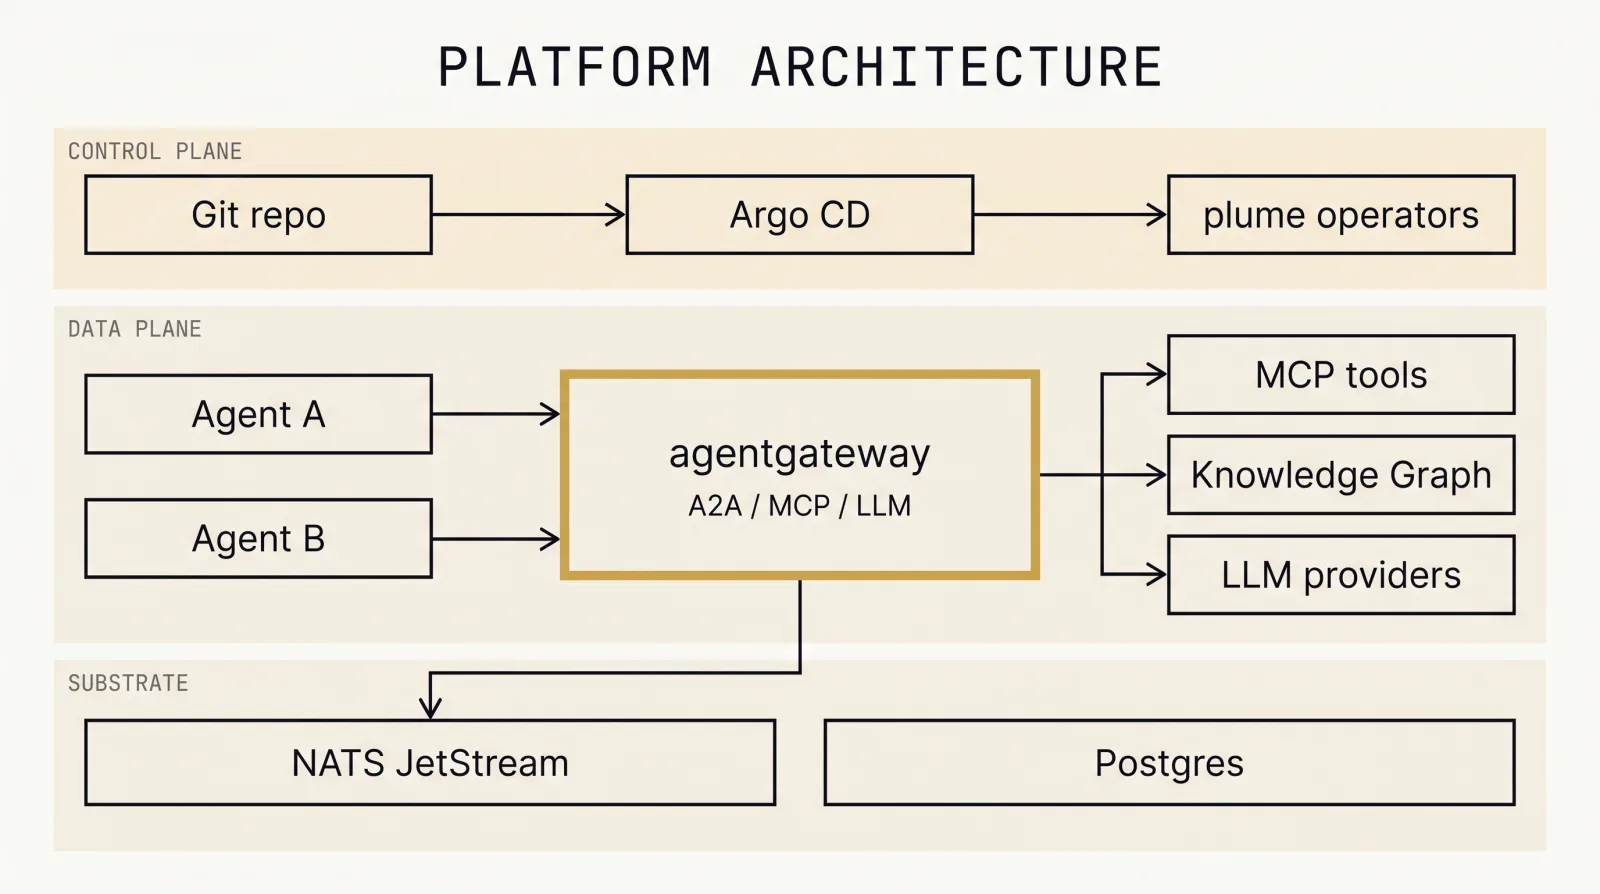
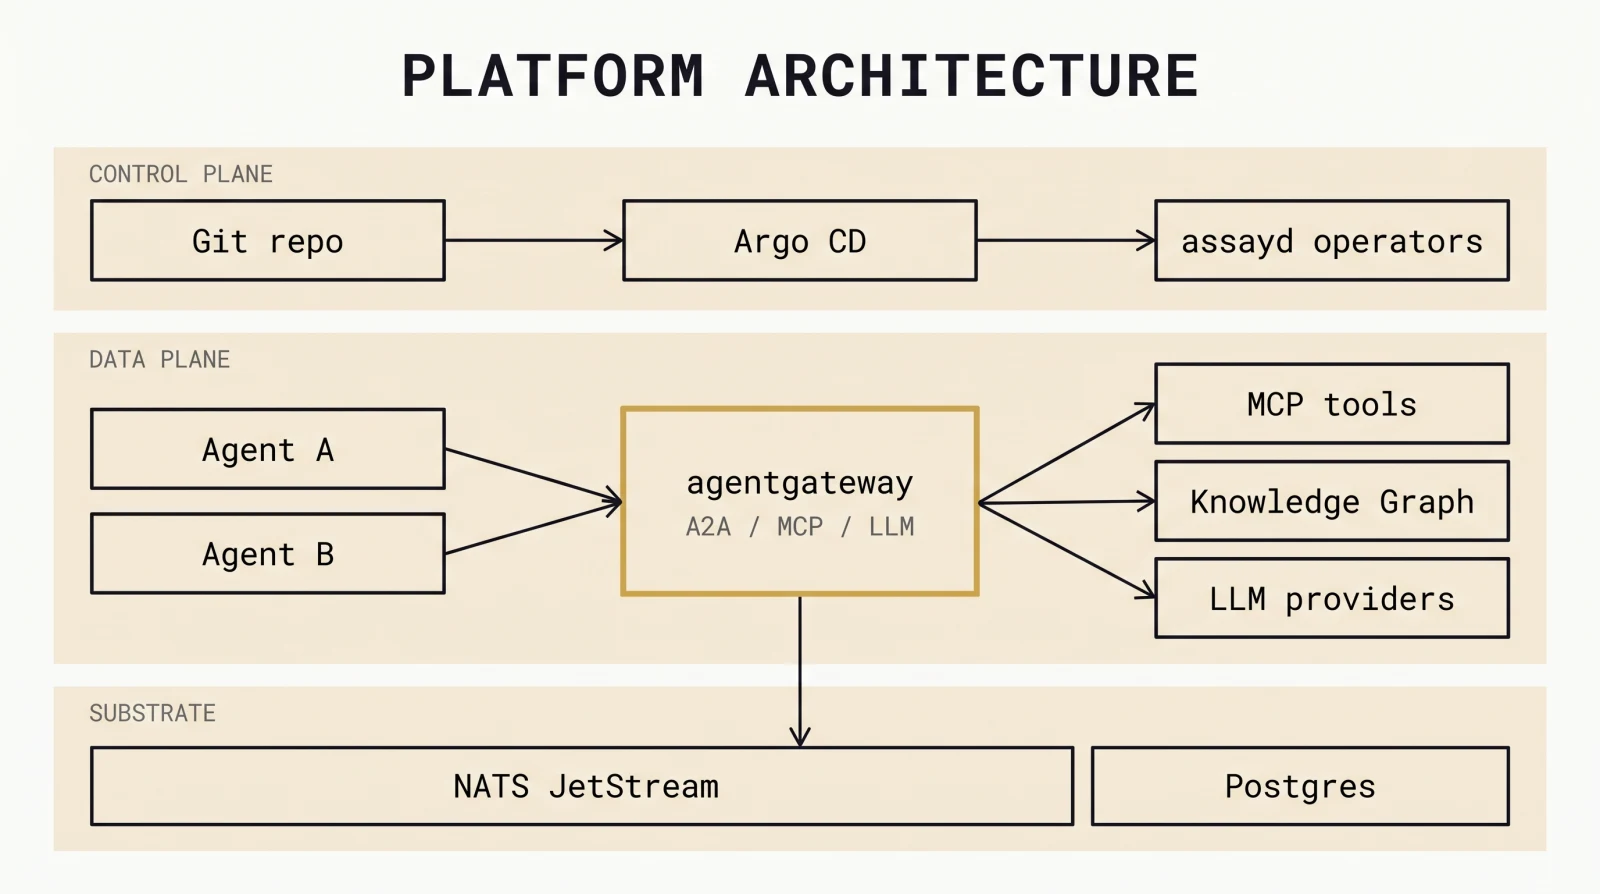
docs: architecture still claimed 27/27 approved and called assayd a codename (#3)
* docs: the architecture doc still said 27/27 approved, and its first line called assayd a codename

Answering "are the architecture document and diagrams updated". They were
renamed on 2026-09-09 and their CONTENT has not been touched since, so they
predate ADR-0030, the gateway measurements, and the rename becoming permanent.

Four findings, in the order they would mislead a reader.

The opening line said "assayd is a neutral internal codename ... rename before
any public release is a tracked task". The rename IS the release name --
ADR-0001 Amendment 1 records it done, with assayd.dev authoritative and the API
group. The first sentence of the canonical architecture document told a reader
the product name was temporary.

§18 said all five phases are "designed and approved (27/27, each
critique-passed)". That is verbatim the sentence CLAUDE.md records as "the first
thing every contributor read" and false -- corrected in CLAUDE.md, AGENTS.md and
designs/README.md, and left standing here. No design 02 or 03 critique has
returned PASS.

architecture.html had drifted further still: "Implementation has not started",
with an operator, a CRD, a chart and eighteen e2e tests in the tree. There is no
generator; the HTML is hand-maintained and had diverged from the markdown
independently.

Neither mentioned ADR-0030 -- zero hits -- so the build order still read as five
committed phases when the delivery commitment is one end-to-end slice and five
designs are demoted to hypotheses.
[…]

Changed region(s): [[0.0312, 0.0302, 0.9688, 0.9362]]

diff --git a/docs/architecture.html b/docs/architecture.html
@@ -339,7 +339,7 @@
         <circle cx="300" cy="130" r="2.5"/>
       </g>
     </svg>
-    <p class="doc-kicker">Architecture · v1.0 · design phase complete</p>
+    <p class="doc-kicker">Architecture · v1.0 · superseded in part — designs 02 and 03 are not approved; delivery is narrowed to one slice (ADR-0030)</p>
     <h1 class="title">assayd<span class="hex"> ⬡</span></h1>
     <p class="subtitle">A radically lightweight, Kubernetes-native agent platform. The domain is a pluggable knowledge graph; everything else is an open standard with a thin binding.</p>
     <p class="subtitle" style="font-size:16px;margin-top:-14px;">Every component below is designed, adversarially critiqued, and approved — including the places the design phase <em>corrected</em> the original strategy. Those corrections are listed first.</p>
@@ -1790,7 +1790,7 @@ score <span class="k">0.91 ✓</span>  (gate: 0.85)
 <!-- ══════════════════════ 17 BUILD ══════════════════════ -->
 <section id="build">
   <div class="sec-head"><span class="n">18</span><h2>Build order</h2></div>
-  <div class="prose"><p><b>Status:</b> all five phases are designed and approved (27/27, each critique-passed). Implementation has not started. Per ADR-0022 the P1 slice can begin with designs <b>02 + 03 + 07 concurrently</b>.</p></div>
+  <div class="prose"><p><b>Status:</b> this line is superseded. An earlier version claimed all five phases were "designed and approved (27/27, each critique-passed)" and that implementation had not started. Both were false: no design 02 or 03 critique has returned PASS, and the operator, its CRD, the chart and a proven gateway path all run and are tested. ADR-0030 narrowed the delivery commitment to one end-to-end slice; the policy compiler does not exist, so no budget, rate limit, gateway authentication or tool filter is enforced. See architecture.md §18 and docs/designs/README.md, which arbitrates design status. Per ADR-0022 the P1 slice can begin with designs <b>02 + 03 + 07 concurrently</b>.</p></div>
   <div class="phases">
     <div class="phase">
       <div class="when">weeks 1–3</div>

diff --git a/docs/architecture.md b/docs/architecture.md
@@ -1,8 +1,8 @@
 # assayd — Architecture v1.0
 
-> **assayd** is a neutral internal codename (previously "graphene" in early drafts — same project; rename before any public release is a tracked task, ADR-0001). A rendered version with figures lives at `docs/architecture.html`; the generated plates live in `docs/diagrams/`.
+> **assayd** is the project's permanent name, not a codename — ADR-0001 Amendment 1 records the rename from the "plume" working title (and "graphene" before that) as **done**, with `assayd.dev` authoritative and the API group. An earlier version of this line still called it "a neutral internal codename … rename before any public release is a tracked task", which was true when written and is now the first thing a reader of this document would get wrong. A rendered version with figures lives at `docs/architecture.html`; the plates live in `docs/diagrams/`.
 
-- **Status**: **design phase complete** · 2026-08-20 — 27/27 component designs approved, each through independent adversarial critique; 26 ADRs recorded. Implementation may begin.
+- **Status**: **superseded in part — read §18 before relying on this document.** Its original header said "design phase complete · 27/27 component designs approved, each through independent adversarial critique; 26 ADRs recorded. Implementation may begin." **Two of those are now false.** Designs **02 and 03** are `critique pending — not approved` by their own Status lines, and there are **32 ADRs**, not 26. ADR-0030 narrowed delivery to one end-to-end slice and demoted five designs to hypotheses. `docs/designs/README.md` arbitrates design status and a design's own Status line beats any summary, including this one.
 - **Thesis**: A radically lightweight, Kubernetes-native agent platform. The domain is a pluggable knowledge graph; everything else is an open standard with a thin binding.
 
 ## 00 · What v1.0 incorporates
@@ -59,6 +59,8 @@ Identity: SPIRE issues SVIDs to agent pods and the gateway; the platform IdP (Zi
 **Color rule in all figures** (see architecture.html): accent = assayd-built; grey = adopted open components. Very little is accent — that is the thesis.
 
 ## 03 · The API surface
+
+> **Designed, not shipped.** One CRD exists today: `Agent` (`config/crd/assayd.dev_agents.yaml`). The rest of this section is the target surface.
 
 | CRD | Declares | Reconciled by |
 |---|---|---|
@@ -414,6 +416,8 @@ kagent answers "how do I run an agent on k8s"; assayd answers "how do I run an a
 
 ## 17 · Weight budget — core tier
 
+> **Designed, not shipped.** The chart deploys one workload today — `assayd-agent-operator`. The budget below is the target.
+
 agent-operator 1 (the only assayd-code pod) · agentgateway 1–2 · SPIRE 2 · Zitadel 1 (on our Postgres) · NATS 1 · Postgres 1 · OpenObserve 1 ≈ **8 pods**.
 
 **Beyond core, as designed**: `plus` adds workflow-operator (a standing controller) + workflow-runtime (which scales 0→N with trigger registrations) — +2, OpenFGA with its co-located ext-authz adapter (+1), model-operator (+1), and optionally Argo and Phoenix. Enterprise adds tenant-operator (+1). Per managed knowledge graph: adapter + backend (2 workload pods). Generative serving adds KServe's `llmisvc` controller at plus tier and **+1 endpoint-picker (EPP) per inference pool** alongside the vLLM serving pods — the same workload category (design 25 A1). A hard-isolated tenant costs ~4–5 pods core-only (NATS, Postgres, Zitadel, OpenObserve and the gateway stay shared), +2–3 at plus.
@@ -431,7 +435,11 @@ Runs anywhere: no LoadBalancer requirement, `local-path` storage, no managed-ide
 
 Discipline: the differentiation only exists once P2/P3 ship — never polish the runtime layer at their expense.
 
-**Status**: all five phases are **designed and approved** (27/27, each critique-passed). Implementation has begun with the test harness: the Agent types, the generated CRD, and an envtest control plane that pins design 02's contract — including the ergonomics rules of ADR-0027 — against a real API server. Per ADR-0022, the P1 slice can begin with designs **02 (agent-operator) + 03 (policy compiler) + 07 (chart/CI) concurrently**; the first milestone is the mechanized demo the CI matrix is specified around — two agents from different SDKs collaborating through the gateway on k3d, fully receipted.
+**Status — read this before the build order above.** An earlier version of this line said all five phases were "designed and approved (27/27, each critique-passed)". **That was false and is withdrawn.** It is the same sentence `CLAUDE.md` records as "the first thing every contributor read", and it survived here after being corrected everywhere else. Design 02's own header says it is not approved; design 03's says critique pending, not approved, do not implement. `docs/designs/README.md` arbitrates, and a design's own Status line beats any summary — including this one.
+
+**The build order above is superseded by ADR-0030 and is kept for context, not as a plan.** The delivery commitment is now **one end-to-end slice**, not five phases: a single-team managed-container Agent, one pinned gateway release, one identity mechanism, carried until one agent completes one A2A task and one MCP tool call through the gateway with a disallowed principal failing against a permitted control. Designs **21, 23, 25, 26, 27** and the unimplemented parts of **11–14** and **18–19** are **hypotheses** — research retained, not prerequisites and not supported promises.
+
+**What actually runs today** is narrower than any section above implies: the agent-operator, its CRD, the chart, an agent that answers through a real gateway, an MCP tool call through it, and a principal refused by identity at it. **The policy compiler does not exist**, so no budget, rate limit, gateway authentication or tool filter is enforced for any agent, and the chart ships no gateway. `CLAUDE.md` and `AGENTS.md` carry the current position in a paragraph maintained for exactly this purpose; `docs/designs/02-agent-crd-operator.md` §5 is the authoritative list of what is stated and not enforced.
 
 ## 19 · Risks held honestly
 
@@ -447,10 +455,11 @@ Discipline: the differentiation only exists once P2/P3 ship — never polish the
 | Research has a shelf life | Notes are dated 2026-08 with re-verify dates; pinned versions (agentgateway minimum, semconv SHA, Unsloth BuiltinTrainer status) will move — open item R1 tracks the gateway version wording |
 | Design ≠ validated | These plans survived adversarial review, not execution. First implementation will test what no review can: agentgateway policy-overlap behavior (research item R1, reproducing test), DBOS-in-Job resume, interpreter determinism |
 | Zitadel AGPL | used unmodified/self-hosted (fine); Keycloak profile exists for allergic enterprises |
+| **agentgateway's steward was never named here** | It is Apache-2.0 and **Linux Foundation-governed, under the Agentic AI Foundation** — co-founded by Anthropic, Block and OpenAI — rather than CNCF. Recorded as a risk **reduced**, not merely a difference: the most load-bearing external dependency in this stack sits in a neutral foundation alongside **MCP**, so the two contracts assayd is least able to replace are governed together. It is also the one dependency not on the CNCF track, and ADR-0015 Amendment 1 makes AAIF assayd's own target for that reason (`research/licensing-open-core-2026-09.md`) |
 
 ## 20 · The decision record
 
-Every claim above is backed by an ADR and a critique-passed design. The corpus lives in the repo: `docs/decisions/` (27 ADRs), `docs/designs/` (27 designs + `reviews/`), `docs/research/` (12 dated notes).
+Most claims above are backed by an ADR and a design that survived adversarial critique — but **"critique-passed" is not "approved", and two central designs are neither**: 02 and 03 both read `critique pending`. Surviving a review is evidence about the prose, not about the component. The corpus lives in the repo: `docs/decisions/` (32 ADRs), `docs/designs/` (27 designs + `reviews/`), `docs/research/` (12 dated notes).
 
 ### ADRs
 

diff --git a/docs/diagrams/README.md b/docs/diagrams/README.md
@@ -17,6 +17,8 @@ Gallery artifact: https://claude.ai/code/artifact/90cd9501-5d83-4921-8822-4fce4c
 
 `.webp` variants (1600px) are the embed-sized copies used by the gallery.
 
+Plates `01-architecture` and `07-what-runs` were re-rendered on 2026-09-10 from the prompts below, after the rename; the other six are unchanged from the original set.
+
 ## Validation notes (each plate was opened and checked)
 
 Every plate passed on: label accuracy and spelling, exactly one gold beat, flat colors, grid alignment,
